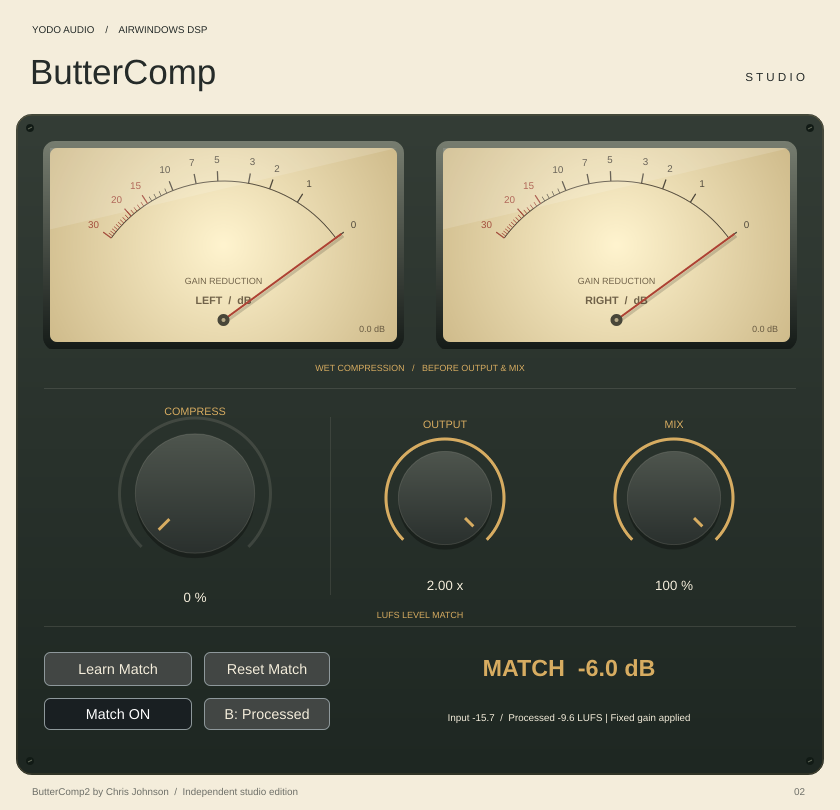
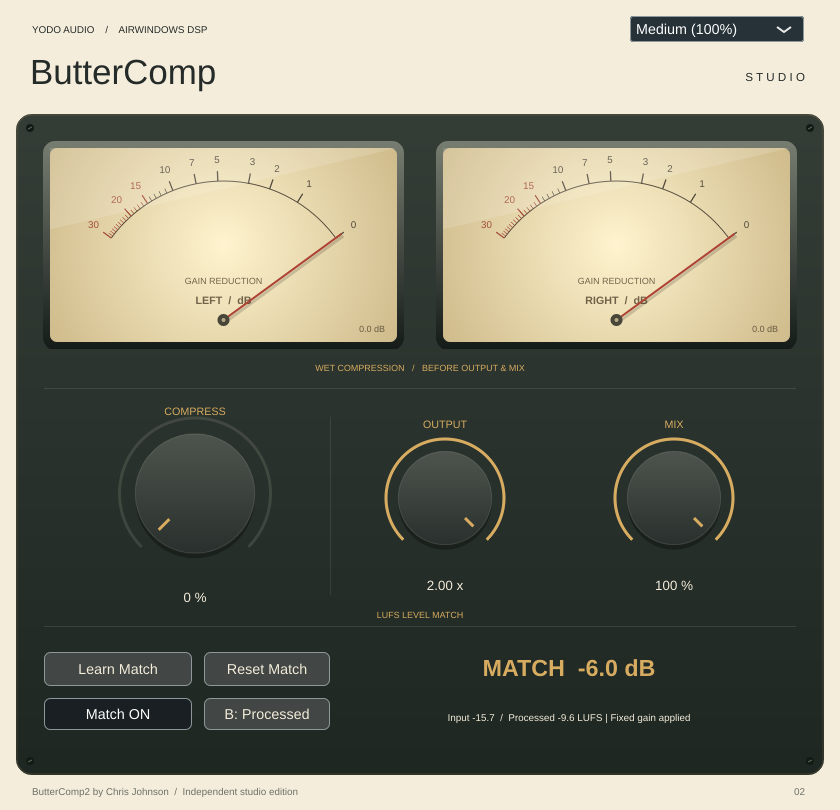
Add three session-persistent interface sizes to ButterComp

Changed region(s): [[0.7429, 0.0, 0.9595, 0.0617]]

diff --git a/tests/PluginChecks.cpp b/tests/PluginChecks.cpp
@@ -51,8 +51,8 @@ int main() {
     p->getParameters()[1]->setValueNotifyingHost(1.f);
     p->getParameters()[2]->setValueNotifyingHost(1.f);
     p->prepareToPlay(48000,512);
-    auto* learn=dynamic_cast<juce::Button*>(editor->findChildWithID("learnMatch"));
-    auto* reset=dynamic_cast<juce::Button*>(editor->findChildWithID("resetMatch"));
+    auto* learn=dynamic_cast<juce::Button*>(editor->getChildComponent(0)->findChildWithID("learnMatch"));
+    auto* reset=dynamic_cast<juce::Button*>(editor->getChildComponent(0)->findChildWithID("resetMatch"));
     if(!learn || !reset) return 10;
     learn->onClick();
     auto feed=[&](int blocks) {
@@ -95,7 +95,7 @@ int main() {
     if(!copy || std::abs(copy->getDoubleAttribute("matchDb")+6.0206)>.03) return 23;
     // Recreate the editor to verify the persisted adjustment is visible immediately.
     editor.reset(p->createEditor());
-    auto* display=dynamic_cast<juce::Label*>(editor->findChildWithID("matchReadout"));
+    auto* display=dynamic_cast<juce::Label*>(editor->getChildComponent(0)->findChildWithID("matchReadout"));
     if(!display || !display->getText().contains("-6.0 dB")) return 13;
     // Screenshot the real learned state before clearing it.
     juce::Image image(juce::Image::ARGB,editor->getWidth(),editor->getHeight(),true);
@@ -110,16 +110,16 @@ int main() {
     if(saved.getWidth()!=editor->getWidth() || saved.getHeight()!=editor->getHeight()) return 9;
     if(editor->getWidth()!=840 || editor->getHeight()!=810) return 5;
     int meters=0;
-    for(auto* child:editor->getChildren()) {
+    for(auto* child:editor->getChildComponent(0)->getChildren()) {
         if(child->getTitle().startsWith("Gain reduction ")) {
             ++meters;
             if(!editor->getLocalBounds().contains(child->getBounds())) return 6;
         }
     }
     if(meters!=2) return 7;
-    reset=dynamic_cast<juce::Button*>(editor->findChildWithID("resetMatch"));
+    reset=dynamic_cast<juce::Button*>(editor->getChildComponent(0)->findChildWithID("resetMatch"));
     reset->onClick();
-    auto* clearDisplay=dynamic_cast<juce::Label*>(editor->findChildWithID("matchReadout"));
+    auto* clearDisplay=dynamic_cast<juce::Label*>(editor->getChildComponent(0)->findChildWithID("matchReadout"));
     if(!clearDisplay || !clearDisplay->getText().contains("--")) return 19;
     feed(4);
     juce::MemoryBlock cleared; p->getStateInformation(cleared);
@@ -144,6 +144,44 @@ int main() {
     restored->getStateInformation(savedAgain);
     copy=juce::AudioProcessor::getXmlFromBinary(savedAgain.getData(),static_cast<int>(savedAgain.getSize()));
     if(copy->getBoolAttribute("hasMatch") || restored->getParameters()[4]->getValue()>.5f) return 17;
+    // Exercise each size, render it, and recall the selection in a fresh processor.
+    auto* sizeChoice=dynamic_cast<juce::ComboBox*>(editor->getChildComponent(0)->findChildWithID("uiSize"));
+    if(!sizeChoice || sizeChoice->getNumItems()!=3 || sizeChoice->getSelectedId()!=2) return 26;
+    for(int id : {1,3,2}) {
+        sizeChoice->setSelectedId(id,juce::sendNotificationSync);
+        const float scale=id==1?.75f:id==3?1.25f:1.f;
+        const int width=juce::roundToInt(840*scale),height=juce::roundToInt(810*scale);
+        if(editor->getWidth()!=width || editor->getHeight()!=height) return 27;
+        auto* panel=editor->getChildComponent(0);
+        for(auto* child:panel->getChildren()) {
+            const auto bounds=editor->getLocalArea(panel,child->getBounds());
+            if(!editor->getLocalBounds().contains(bounds)) return 28;
+            const auto centre=editor->getLocalPoint(child,child->getLocalBounds().getCentre());
+            if(editor->getComponentAt(centre)==editor.get()) return 29;
+        }
+        juce::Image scaled(juce::Image::ARGB,width,height,true);
+        juce::Graphics graphics(scaled); editor->paintEntireComponent(graphics,true);
+        auto file=juce::File::getCurrentWorkingDirectory().getChildFile("ui-size-"+juce::String(id)+".png");
+        if(auto stream=file.createOutputStream()) {
+            stream->setPosition(0); stream->truncate();
+            if(!juce::PNGImageFormat().writeImageToStream(scaled,*stream)) return 30;
+        } else return 31;
+        juce::MemoryBlock sized; p->getStateInformation(sized);
+        restored->setStateInformation(sized.getData(),static_cast<int>(sized.getSize()));
+        std::unique_ptr<juce::AudioProcessorEditor> recalled(restored->createEditor());
+        if(recalled->getWidth()!=width || recalled->getHeight()!=height) return 32;
+        auto* recalledChoice=dynamic_cast<juce::ComboBox*>(recalled->getChildComponent(0)->findChildWithID("uiSize"));
+        if(!recalledChoice || recalledChoice->getSelectedId()!=id) return 33;
+        editor.reset(); editor.reset(p->createEditor());
+        sizeChoice=dynamic_cast<juce::ComboBox*>(editor->getChildComponent(0)->findChildWithID("uiSize"));
+        if(!sizeChoice || sizeChoice->getSelectedId()!=id || editor->getWidth()!=width || editor->getHeight()!=height) return 35;
+    }
+    // Older sessions have no size property and open at the original dimensions.
+    copy->removeAttribute("uiSize");
+    juce::MemoryBlock oldSize; juce::AudioProcessor::copyXmlToBinary(*copy,oldSize);
+    restored->setStateInformation(oldSize.getData(),static_cast<int>(oldSize.getSize()));
+    std::unique_ptr<juce::AudioProcessorEditor> legacyEditor(restored->createEditor());
+    if(legacyEditor->getWidth()!=840 || legacyEditor->getHeight()!=810) return 34;
     editor.reset(); p->releaseResources();
     std::cout<<"Parameter state round-trip, stereo processing, and editor render passed\n";
 }

diff --git a/Source/Plugin.cpp b/Source/Plugin.cpp
@@ -117,6 +117,7 @@ public:
     juce::AudioProcessorEditor* createEditor() override;
     void getStateInformation(juce::MemoryBlock& dst) override {
         auto saved=state.copyState();
+        saved.setProperty("uiSize",uiSize.load(),nullptr);
         saved.setProperty("matchDb",matchDb.load(),nullptr);
         saved.setProperty("hasMatch",hasMatch.load(),nullptr);
         saved.setProperty("learnedInput",learnedInput.load(),nullptr);
@@ -126,6 +127,7 @@ public:
     void setStateInformation(const void* data,int size) override {
         if(auto xml=getXmlFromBinary(data,size); xml && xml->hasTagName(state.state.getType())) {
             auto restored=juce::ValueTree::fromXml(*xml);
+            uiSize=juce::jlimit(1,3,static_cast<int>(restored.getProperty("uiSize",2)));
             const auto db=static_cast<float>(restored.getProperty("matchDb",0.f));
             matchDb=std::isfinite(db)?juce::jlimit(-24.f,24.f,db):0.f;
             hasMatch=std::isfinite(db)&&static_cast<bool>(restored.getProperty("hasMatch",false));
@@ -150,6 +152,7 @@ public:
     std::atomic<bool> hasMatch{false},learning{false};
     std::atomic<int> command{0},learnResult{0};
     std::atomic<uint32_t> matchRevision{0};
+    std::atomic<int> uiSize{2};
 private:
     void timerCallback() override {
         // Mark custom learned state dirty on the message thread, even if the
@@ -266,9 +269,9 @@ private:
     float value=0;
 };
 
-class ButterEditor final : public juce::AudioProcessorEditor, private juce::Timer {
+class ButterPanel final : public juce::Component, private juce::Timer {
 public:
-    explicit ButterEditor(ButterProcessor& proc) : AudioProcessorEditor(proc), processor(proc) {
+    explicit ButterPanel(ButterProcessor& proc) : processor(proc) {
         setLookAndFeel(&look);
         const char* ids[]={"compress","output","mix"};
         const char* labels[]={"COMPRESS","OUTPUT","MIX"};
@@ -318,11 +321,26 @@ public:
         enableButton.setTooltip("Enable or disable the learned gain without losing it.");
         abButton.setTooltip("Compare the original input with the processed output. Short fades prevent switching clicks.");
         refreshMatch();
+        addAndMakeVisible(sizeChoice);
+        sizeChoice.setComponentID("uiSize");
+        sizeChoice.setName("Interface size");
+        sizeChoice.setTooltip("Interface size: Small 75%, Medium 100%, or Large 125%.");
+        sizeChoice.addItem("Small (75%)",1);
+        sizeChoice.addItem("Medium (100%)",2);
+        sizeChoice.addItem("Large (125%)",3);
+        sizeChoice.setSelectedId(processor.uiSize.load(),juce::dontSendNotification);
+        sizeChoice.onChange=[this] {
+            processor.uiSize=sizeChoice.getSelectedId();
+            processor.updateHostDisplay(juce::AudioProcessor::ChangeDetails{}.withNonParameterStateChanged(true));
+            if(sizeChanged) sizeChanged();
+        };
         setSize(840,810);
         startTimerHz(30);
     }
-    ~ButterEditor() override { stopTimer(); setLookAndFeel(nullptr); }
+    ~ButterPanel() override { stopTimer(); setLookAndFeel(nullptr); }
+    std::function<void()> sizeChanged;
     void resized() override {
+        sizeChoice.setBounds(630,16,174,26);
         leftMeter.setBounds(43,141,361,208);
         rightMeter.setBounds(436,141,361,208);
         knobs[0].setBounds(80,402,230,207);
@@ -385,6 +403,10 @@ private:
         matchStatus.setText(text,juce::dontSendNotification);
     }
     void timerCallback() override {
+        if(sizeChoice.getSelectedId()!=processor.uiSize.load()) {
+            sizeChoice.setSelectedId(processor.uiSize.load(),juce::dontSendNotification);
+            if(sizeChanged) sizeChanged();
+        }
         refreshMatch();
         const auto sequence=processor.meterSequence.load(std::memory_order_relaxed);
         idleTicks=sequence==lastSequence?juce::jmin(idleTicks+1,16):0;
@@ -397,6 +419,7 @@ private:
         shownR=r>shownR?r:r+decay*(shownR-r);
         leftMeter.setReduction(shownL); rightMeter.setReduction(shownR);
     }
+    juce::ComboBox sizeChoice;
     juce::TextButton learnButton{"Learn Match"},resetButton{"Reset Match"},enableButton{"Match ON"},abButton{"B: Processed"};
     juce::Label readout,matchStatus;
     std::unique_ptr<juce::AudioProcessorValueTreeState::ButtonAttachment> enableAttachment,abAttachment;
@@ -409,6 +432,26 @@ private:
     std::array<juce::Slider,3> knobs;
     std::array<std::unique_ptr<juce::AudioProcessorValueTreeState::SliderAttachment>,3> attachments;
     juce::TooltipWindow tooltip{this,600};
+};
+// Scale a fixed logical panel so painting, controls, and hit testing share one transform.
+// The editor itself retains JUCE's independent host/HiDPI scale handling.
+class ButterEditor final : public juce::AudioProcessorEditor {
+public:
+    explicit ButterEditor(ButterProcessor& p) : AudioProcessorEditor(p), processor(p), panel(p) {
+        addAndMakeVisible(panel);
+        setResizable(false,false);
+        panel.sizeChanged=[this] { applySize(); };
+        applySize();
+    }
+private:
+    void applySize() {
+        const float scale=processor.uiSize.load()==1?.75f:processor.uiSize.load()==3?1.25f:1.f;
+        panel.setTransform(juce::AffineTransform::scale(scale));
+        panel.setBounds(0,0,840,810);
+        setSize(juce::roundToInt(840*scale),juce::roundToInt(810*scale));
+    }
+    ButterProcessor& processor;
+    ButterPanel panel;
 };
 juce::AudioProcessorEditor* ButterProcessor::createEditor() { return new ButterEditor(*this); }
 juce::AudioProcessor* JUCE_CALLTYPE createPluginFilter() { return new ButterProcessor; }

diff --git a/README.md b/README.md
@@ -131,3 +131,11 @@ The loudness test suite compares measurements to independent libebur128 results
 at 44.1/48/96/192 kHz. Wrapper checks cover a known -6.02 dB match, visible readout,
 session recall, exact dry A/B, reset isolation and an unchanged engine signal when
 matching is not learned.
+
+## Interface size
+
+Choose **Small (75%)**, **Medium (100%)**, or **Large (125%)** from the menu at
+the top right. The entire interface scales proportionally, including the meters
+and controls. Medium retains the original size. The selection is saved per plugin
+instance with the session and retained when reopening the editor. Older sessions
+open at Medium. Audio processing and level matching are unchanged.
